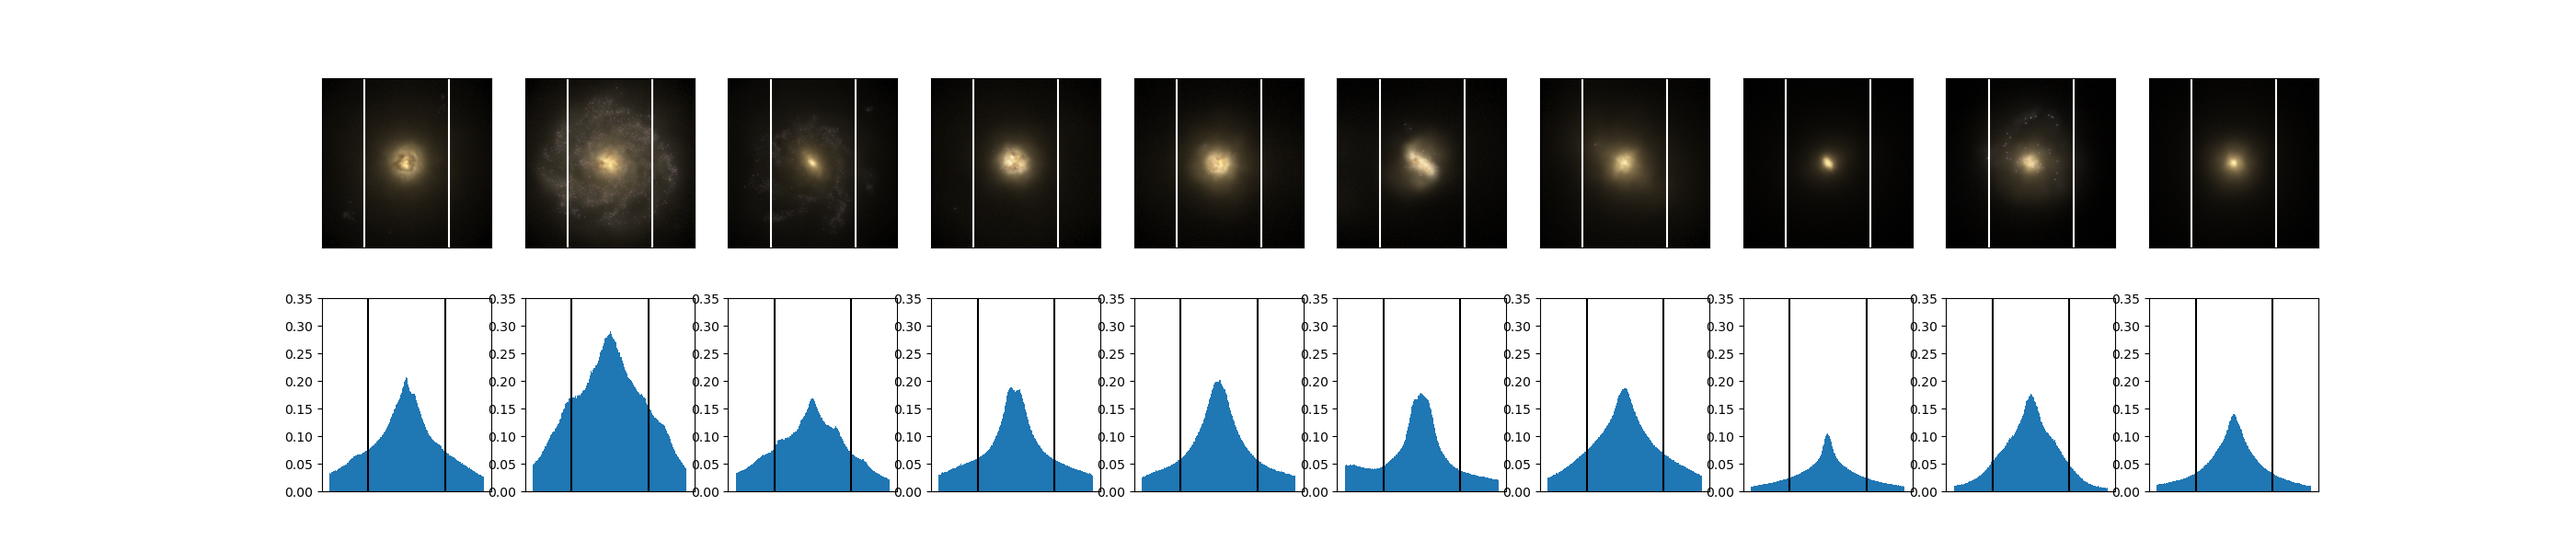
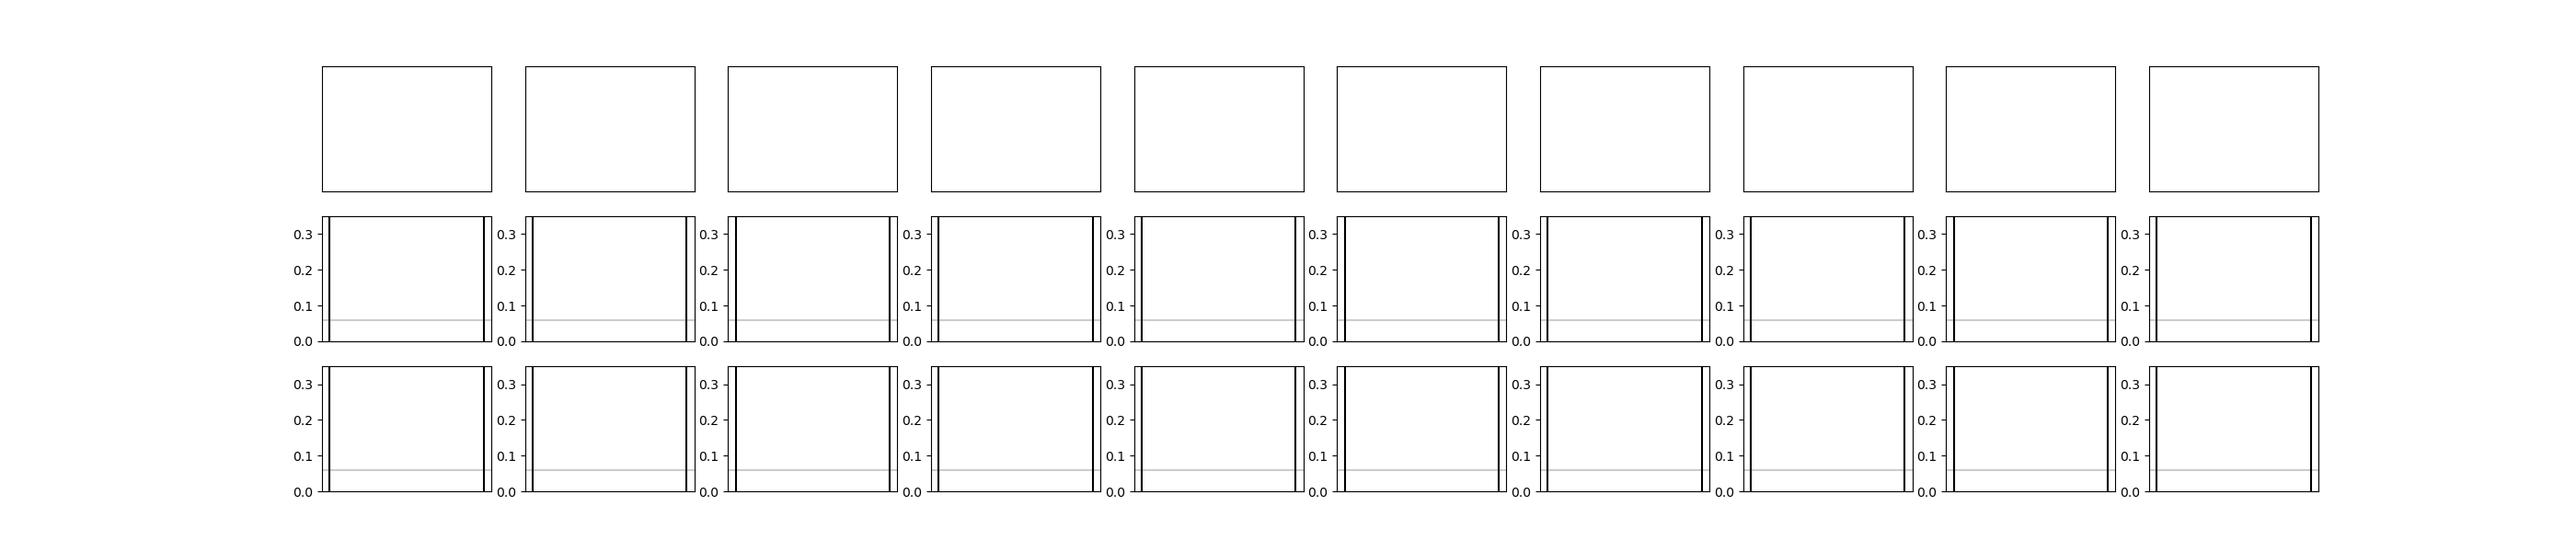
Code

diff --git a/resize_images.py b/resize_images.py
@@ -81,31 +81,68 @@ for galaxy in galaxies:
     filename = "galface_" + galaxy + ".png"
 
     # open the image and append it to the main list
-    image = mpimg.imread("/cosma7/data/Eagle/web-storage/RefL0100N1504_Subhalo/" + filename)
-    chosen_images.append(image)
+    # image = mpimg.imread("/cosma7/data/Eagle/web-storage/RefL0100N1504_Subhalo/" + filename)
+
+    # chosen_images.append(image)
 
 chosen_images = np.array(chosen_images)
 
 
 
 
-fig, axs = plt.subplots(2, 10, figsize=(28, 6))
+fig, axs = plt.subplots(3, 10, figsize=(28, 6))
 
 for i in range(len(galaxies)):
 
-    axs[0, i].imshow(chosen_images[i])
+    # axs[0, i].imshow(chosen_images[i])
     axs[0, i].axvline(x=64, c="white")
     axs[0, i].axvline(x=192, c="white")
+    axs[0, i].axhline(y=64, c="white")
+    axs[0, i].axhline(y=192, c="white")
     axs[0, i].get_xaxis().set_visible(False)
     axs[0, i].get_yaxis().set_visible(False)
 
-    intensity = chosen_images[i].mean(axis=2).mean(axis=0)
-    axs[1, i].bar(x=range(0, len(intensity)), height=intensity, width=1)
+    cutoff = 0.06
+
+
+    intensity_x = chosen_images[i].mean(axis=2).mean(axis=0)
+    axs[1, i].bar(x=range(0, len(intensity_x)), height=intensity, width=1)
     axs[1, i].axvline(x=64, c="black")
     axs[1, i].axvline(x=192, c="black")
+    axs[1, i].axhline(y=0.06, c="black", alpha=0.2)
     axs[1, i].get_xaxis().set_visible(False)
     axs[1, i].set_ylim([0, 0.35])
-    # axs[1, i].get_yaxis().set_visible(False)
+
+    intensity_y = chosen_images[i].mean(axis=2).mean(axis=1)
+    axs[2, i].bar(x=range(0, len(intensity_y)), height=intensity, width=1)
+    axs[2, i].axvline(x=64, c="black")
+    axs[2, i].axvline(x=192, c="black")
+    axs[2, i].axhline(y=0.06, c="black", alpha=0.2)
+    axs[2, i].get_xaxis().set_visible(False)
+    axs[2, i].set_ylim([0, 0.35])
+
+    start_x = 0
+    start_y = 0
+    end_x = 255
+    end_y = 0
+
+    for j in range(0, 128):
+
+        if intensity_x[j] <= cutoff:
+            start = intensity_x[j]
+        if intensity_x[-j] <= cutoff:
+            end = intensity_x[-j]
+
+        if intensity_y[j] <= cutoff:
+            start = intensity_y[j]
+        if intensity_y[-j] <= cutoff:
+            end = intensity_y[-j]
+
+    axs[0, i].axvline(x=start_x, c="blue")
+    axs[0, i].axline(x=end_x, c="blue")
+
+    axs[0, i].axhline(x=start_y, c="blue")
+    axs[0, i].axhline(x=end_y, c="blue")
 
 
 
